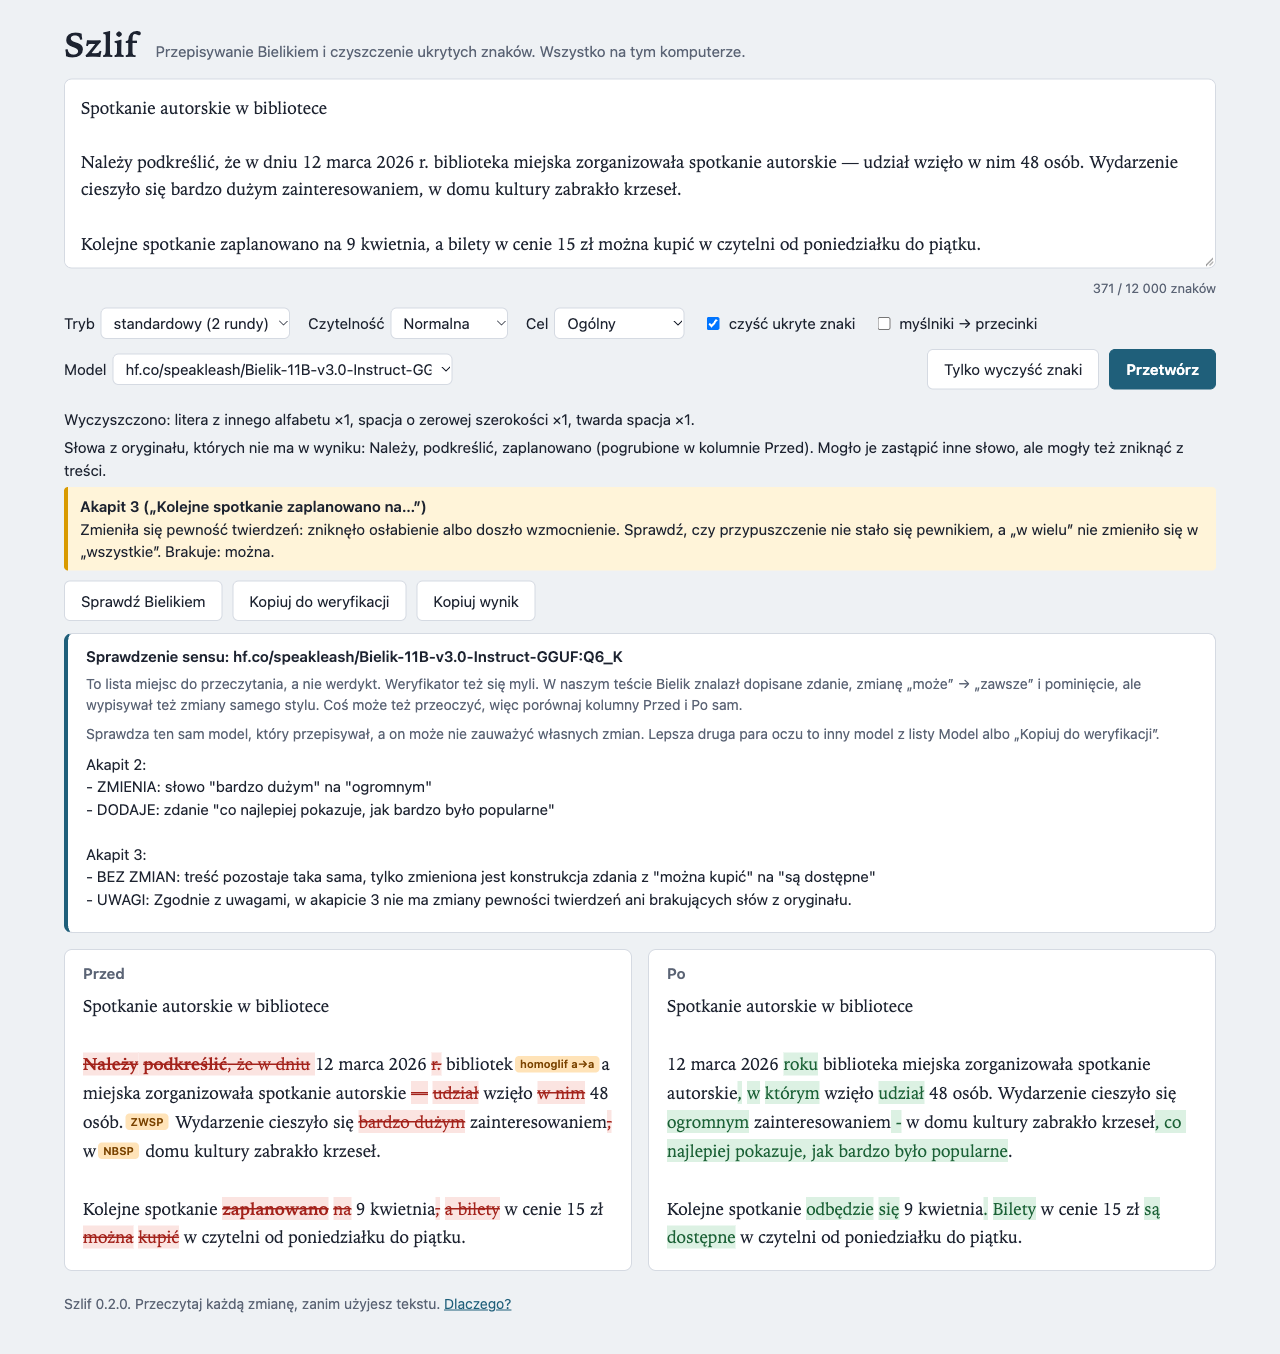
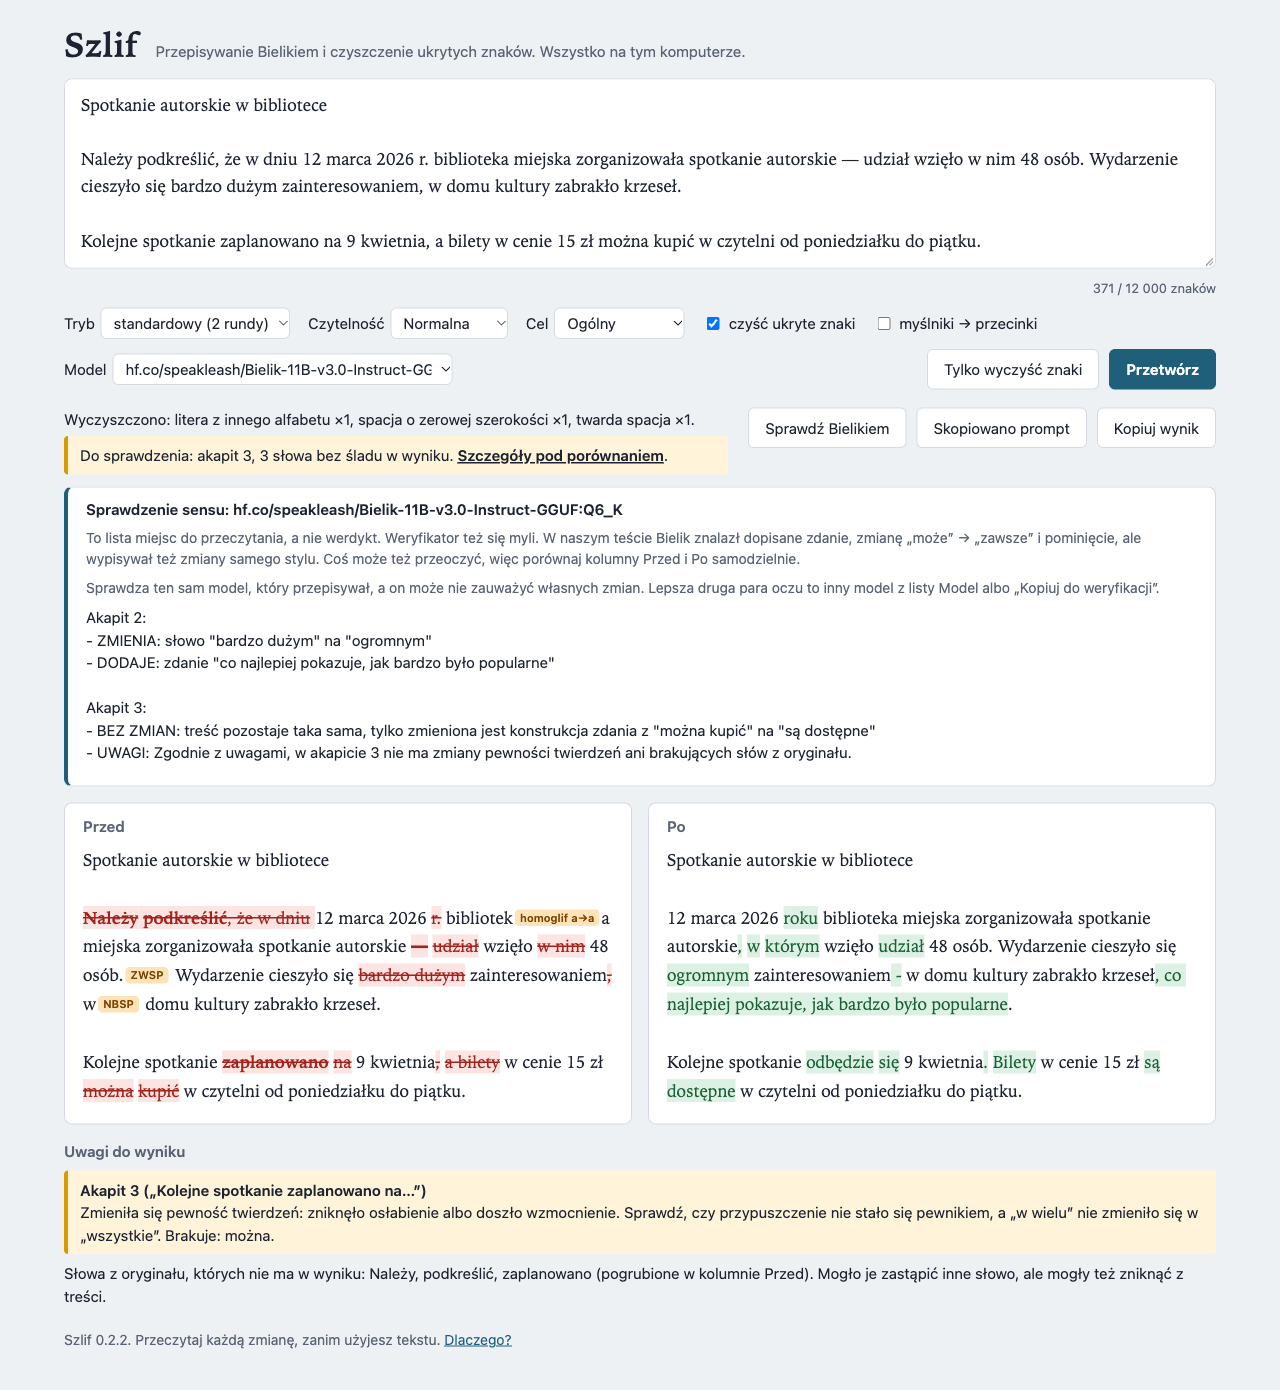
feat: 0.2.2: notes under the before/after columns, one summary line above them; '42 pliki' in Polish
The comparison is what matters most; many notes pushed it far down the page. Above the columns
stays one line ('Do sprawdzenia: akapit 3, 3 słowa bez śladu w wyniku') linking to the details.
Screenshots retaken in the new layout with Bielik's recorded answers from the 0.2.0 run.

diff --git a/szlif_core/strona.html b/szlif_core/strona.html
@@ -57,6 +57,9 @@
   .problem { background: var(--warn-bg); border-left: 4px solid var(--warn); padding: 8px 12px; border-radius: 4px; }
   .problem b { font-weight: 600; }
   .stopped { color: var(--muted); }
+  .details { display: grid; gap: 8px; margin-top: 18px; scroll-margin-top: 16px; }
+  .details h2 { font: 600 15px/1.2 var(--sans); color: var(--muted); margin: 0 0 2px; }
+  .facts a { color: inherit; font-weight: 600; }
   .check { background: var(--panel); border: 1px solid var(--line); border-left: 4px solid var(--accent);
            border-radius: 8px; padding: 12px 18px 14px; margin: 0 0 16px; display: grid; gap: 8px; }
   .check h2 { font: 600 15px/1.3 var(--sans); margin: 0; overflow-wrap: anywhere; }
@@ -139,6 +142,7 @@
       <div class="column"><h2>Przed</h2><div class="text" id="przed"></div></div>
       <div class="column"><h2>Po</h2><div class="text" id="po"></div></div>
     </div>
+    <div class="details" id="szczegoly" hidden></div>
   </section>
 
   <footer>
@@ -305,27 +309,46 @@ function render(view, notes) {
   facts.append(el("div", "", cleaned.length
     ? "Wyczyszczono: " + cleaned.map(([kind, n]) => (NAMES[kind] || kind) + " ×" + n).join(", ") + "."
     : "Nie znaleziono ukrytych znaków."));
-  const terms = view.znikniete || [];
-  if (terms.length) {
-    const shown = terms.slice(0, 15).join(", ") + (terms.length > 15 ? " i " + (terms.length - 15) + " innych" : "");
-    facts.append(el("div", "", "Słowa z oryginału, których nie ma w wyniku: " + shown + " (pogrubione w kolumnie Przed). "
-      + "Mogło je zastąpić inne słowo, ale mogły też zniknąć z treści."));
-  }
+  // The comparison is what matters most, so the details go under the columns; above them stays
+  // one line saying what is there, so a warning is not missed.
+  const details = $("szczegoly");
+  details.replaceChildren(el("h2", "", "Uwagi do wyniku"));
+  const values = view.problemy.filter((p) => p.kind === "values");
   // Numbers are checked on the whole text (and marked in it); the rest per paragraph, in notes.
-  for (const p of view.problemy.filter((p) => p.kind === "values")) {
+  for (const p of values) {
     const box = el("div", "problem");
     box.append(el("b", "", p.message));
     if (p.missing.length) box.append(el("div", "", "Brakuje w wyniku: " + p.missing.join(", ")));
     if (p.added.length) box.append(el("div", "", "Dodane w wyniku: " + p.added.join(", ")));
-    facts.append(box);
+    details.append(box);
   }
+  const noted = [];
   for (const note of notes || []) {
     if (note.info) { facts.append(el("div", "stopped", note.info)); continue; }
     const box = el("div", "problem");
     box.append(el("b", "", "Akapit " + note.number + " („" + note.start + "”)"));
     for (const p of note.problems) box.append(el("div", "", detail(p)));
     if (note.reason) box.append(el("div", "stopped", note.reason));
-    facts.append(box);
+    details.append(box);
+    noted.push(note.number);
+  }
+  const terms = view.znikniete || [];
+  if (terms.length) {
+    const shown = terms.slice(0, 15).join(", ") + (terms.length > 15 ? " i " + (terms.length - 15) + " innych" : "");
+    details.append(el("div", "", "Słowa z oryginału, których nie ma w wyniku: " + shown + " (pogrubione w kolumnie Przed). "
+      + "Mogło je zastąpić inne słowo, ale mogły też zniknąć z treści."));
+  }
+  const parts = [];
+  if (noted.length) parts.push((noted.length === 1 ? "akapit " : "akapity ") + listPl(noted));
+  if (values.length) parts.push("liczby w całym tekście");
+  if (terms.length) parts.push(terms.length + " " + plural(terms.length, "słowo", "słowa", "słów") + " bez śladu w wyniku");
+  details.hidden = !parts.length;
+  if (parts.length) {
+    const line = el("div", noted.length || values.length ? "problem" : "", "Do sprawdzenia: " + parts.join(", ") + ". ");
+    const link = el("a", "", "Szczegóły pod porównaniem");
+    link.href = "#szczegoly";
+    line.append(link, document.createTextNode("."));
+    facts.append(line);
   }
   $("kopiuj").textContent = "Kopiuj wynik";
   $("weryfikuj").textContent = "Kopiuj do weryfikacji";
@@ -376,6 +399,16 @@ async function rewriteBlock(base, block, rounds, model, signal, progress) {
     }
   }
   return {tekst: current === null ? block.tekst : current, cut, problems, reason};
+}
+
+function listPl(items) {  // [2, 3, 5] -> "2, 3 i 5"
+  return items.length < 2 ? String(items[0]) : items.slice(0, -1).join(", ") + " i " + items[items.length - 1];
+}
+
+function plural(n, one, few, many) {  // Polish: 1 słowo, 2 słowa, 5 słów, 22 słowa, 12 słów
+  if (n === 1) return one;
+  const tens = n % 100, units = n % 10;
+  return units >= 2 && units <= 4 && (tens < 12 || tens > 14) ? few : many;
 }
 
 function detail(p) {

diff --git a/tests/test_update.py b/tests/test_update.py
@@ -37,6 +37,11 @@ class Versions(unittest.TestCase):
         self.assertTrue(update.check_due({"aktualizacje": True, "sprawdzono": now - 2 * 86400}, now))
 
 
+    def test_files_in_polish(self):  # "Zapisano 42 plików" was wrong
+        self.assertEqual([update.files_pl(n) for n in (1, 2, 5, 12, 22, 42, 112)],
+                         ["1 plik", "2 pliki", "5 plików", "12 plików", "22 pliki", "42 pliki", "112 plików"])
+
+
 class LatestRelease(unittest.TestCase):
     def test_found(self):
         with FakeServer({("GET", "/repos/akworob/szlif/releases/latest"): (200, RELEASE, 0)}) as s:
@@ -116,8 +121,10 @@ class Updating(unittest.TestCase):
         data = zip_bytes({"szlif-abc/szlif.py": "nowy", "szlif-abc/szlif_core/x.py": "x",
                           "szlif-abc/../ucieczka.txt": "zle"})
         (self.root / "szlif.py").write_text("stary")
+        out = io.StringIO()
         with FakeServer({("GET", "/zip"): (200, data, 0)}) as s:
-            update.update_zip(self.root, s.url + "/zip", io.StringIO(), allowed_hosts={"127.0.0.1"})
+            update.update_zip(self.root, s.url + "/zip", out, allowed_hosts={"127.0.0.1"})
+        self.assertIn("Zapisano 2 pliki", out.getvalue())
         self.assertEqual((self.root / "szlif.py").read_text(), "nowy")
         self.assertEqual((self.root / "szlif_core" / "x.py").read_text(), "x")
         self.assertFalse((self.root.parent / "ucieczka.txt").exists())

diff --git a/szlif_core/update.py b/szlif_core/update.py
@@ -140,7 +140,15 @@ def update_zip(root: Path, url: str, out: TextIO, allowed_hosts: Iterable[str] =
             _remove(temp for temp, _ in staged[done:])
             raise UpdateError("Zapis nowej wersji przerwany (%s): część plików jest nowa, część stara. "
                               "Uruchom aktualizację jeszcze raz albo pobierz ZIP od nowa." % e)
-    print("Zapisano %d plików nowej wersji." % len(staged), file=out)
+    print("Zapisano %s nowej wersji." % files_pl(len(staged)), file=out)
+
+
+def files_pl(n: int) -> str:
+    """1 plik, 2 pliki, 5 plików, 22 pliki, 112 plików."""
+    if n == 1:
+        return "1 plik"
+    few = 2 <= n % 10 <= 4 and not 12 <= n % 100 <= 14
+    return "%d %s" % (n, "pliki" if few else "plików")
 
 
 def _remove(paths: Iterable[Path]) -> None:

diff --git a/szlif_core/__init__.py b/szlif_core/__init__.py
@@ -1,5 +1,5 @@
 import os
 
-__version__ = "0.2.1"
+__version__ = "0.2.2"
 # How the user starts Szlif on this system, for the hints in messages.
 COMMAND = "py szlif.py" if os.name == "nt" else "python3 szlif.py"

diff --git a/README.md b/README.md
@@ -116,7 +116,8 @@ Polecenia `szlif.py` uruchamiaj w folderze Szlifu (tym, w którym leży plik `sz
   - Żółte podkreślenie: wartość, której nie ma w wyniku.
   - Pogrubienie: słowo, po którym w wyniku nie ma śladu, nawet w innej formie. Mogło je zastąpić inne słowo, ale mogło też zniknąć z treści.
 - **Prawa kolumna to wynik.** Na zielono jest to, co doszło.
-- **Nad kolumnami** widać, co wyczyszczono, ostrzeżenia o liczbach (zaznaczone też w tekście) i notatki przy konkretnych akapitach, np. „Akapit 4 (…)”, z powodem ostrzeżenia.
+- **Nad kolumnami** widać, co wyczyszczono, i jedną linię z tym, co trzeba sprawdzić, np. „Do sprawdzenia: akapit 3”.
+- **Pod kolumnami** są szczegóły: ostrzeżenia o liczbach (zaznaczone też w tekście), notatki przy konkretnych akapitach, np. „Akapit 4 (…)”, z powodem ostrzeżenia, i lista słów bez śladu w wyniku.
 - **Tryby:**
   - prosty (1 runda: rytm zdań);
   - standardowy (2 rundy: plus słownictwo);
@@ -143,7 +144,7 @@ Po przetworzeniu kliknij **Sprawdź Bielikiem**. Model wybrany na liście **Mode
 
 ![Panel „Sprawdzenie sensu” nad kolumnami Przed i Po](docs/zrzuty/3-sprawdzenie.png)
 
-Ten zrzut to prawdziwy przebieg (wersja 0.2.0) i dobry przykład, dlaczego wynik trzeba przeczytać samodzielnie:
+Ten zrzut pokazuje prawdziwe odpowiedzi Bielika z przebiegu na wersji 0.2.0, w układzie strony z wersji 0.2.2. To dobry przykład, dlaczego wynik trzeba przeczytać samodzielnie:
 
 - **Akapit 2:** Bielik dopisał od siebie „co najlepiej pokazuje, jak bardzo było popularne”. Strażnik tego nie zgłosił, bo dopisek nie ma liczb, a akapit urósł za mało, żeby przekroczyć próg długości. Znalazło go dopiero „Sprawdź Bielikiem”.
 - **Akapit 3:** ostrzeżenie strażnika („Brakuje: można”) to fałszywy alarm, bo „można kupić” → „są dostępne” nie zmienia pewności.

diff --git a/CHANGELOG.md b/CHANGELOG.md
@@ -1,5 +1,10 @@
 # Zmiany
 
+## 0.2.2 (październik 2026)
+
+- **Porównanie przed i po jest wyżej.** Uwagi strażnika, notatki przy akapitach i słowa bez śladu w wyniku są teraz pod kolumnami. Nad kolumnami zostaje jedna linia, np. „Do sprawdzenia: akapit 3”, z odnośnikiem do szczegółów.
+- **Drobne:** aktualizacja z ZIP pisze „Zapisano 42 pliki”, a nie „42 plików”.
+
 ## 0.2.1 (październik 2026)
 
 - **Poprawka:** w 0.2.0 strona nie startowała, gdy `python3 szlif.py` uruchomiono w terminalu (błąd `UnboundLocalError`). Z wersji 0.2.0 zaktualizujesz się poleceniem `python3 szlif.py aktualizuj`, bo ono działało.
